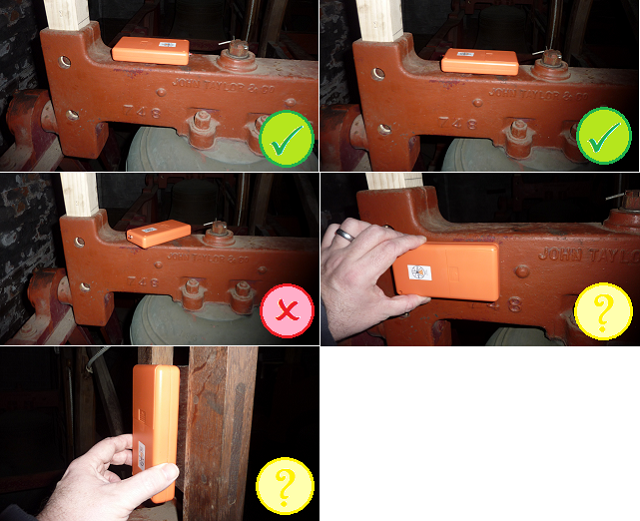
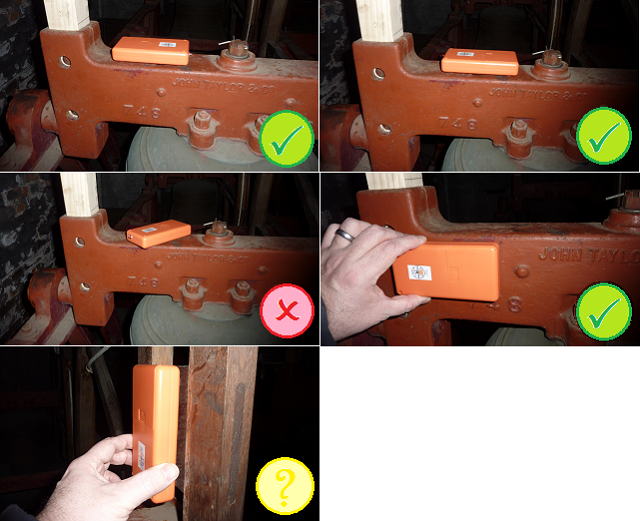
Side mounting

Changed region(s): [[0.875, 0.5221, 1.0, 0.6756]]

diff --git a/grabber/grabber.c b/grabber/grabber.c
@@ -79,7 +79,7 @@ float sample_period = 0.0;
 float GYRO_BIAS_1[3] = { 0.0, 0.0, 0.0 };
 float GYRO_BIAS_2[3] = { 0.0, 0.0, 0.0 };
 int DEBUG = 0;
-float angle_correction = 0.0;
+//float angle_correction = 0.0;
 
 // These are the smoothed results to report to the front end
 float smoothedAngle = 0.0;
@@ -94,6 +94,8 @@ float MPU6050_gyro_scale_factor = 0;
 float MPU6050_accel_scale_factor = 0;
 
 float ROTATIONS[3] = { 1.0, -1.0, -1.0 }; //set rotation values for mounting IMU device x y z
+
+float SIDEMOUNT = 0.0;
 
 int ODR = 0;
 int FS_GYRO = 0;
@@ -127,7 +129,7 @@ void sig_handler(int signum) {
     sig_exit = 1;
 }
 /*
-# There are eight possible command sent by the user's browser:
+# There are nine possible command sent by the user's browser:
 # (a)   STRT:[filename] Start recording a session with a bell.  The bell
 #       must be at stand and (reasonably) stationary otherwise this
 #       will return ESTD: or EMOV: either of which signals the browser 
@@ -144,6 +146,7 @@ void sig_handler(int signum) {
 #             string is unixtime (microsecs since 1/1/70)
 # (g)   SAMP: requests the current sample period
 # (h)   SHDN: tells the device to shutdown
+# (i)   TEST: returns the current basic orientation (for testing)
 # 
 # There are the following responses back to the user's browser:
 # (i)   STPD: tells the browser that the device has sucessfully stopped sampling
@@ -158,12 +161,13 @@ void sig_handler(int signum) {
 # (vii) ESTD: bell not at stand (aborts started session)
 # (viii)EMOV: bell moving when session started (the bell has to be stationary at start)
 # (ix)  ESAM: sample period needs to be measured first (deprecated)
-# (x)  ESTR: internal error related to data / filenames (shouldn't happen)!
-# (xi) DATA:[string]  chunk of data from a previously stored file.  In same format as LIVE:
-# (xii)EOVF: (sent by dcmimu) fifo overflow flagged.
+# (x)   ESTR: internal error related to data / filenames (shouldn't happen)!
+# (xi)  DATA:[string]  chunk of data from a previously stored file.  In same format as LIVE:
+# (xii) EOVF: (sent by dcmimu) fifo overflow flagged.
 # (xiii)FILE:[filename] in response to FILE: a list of the previous recordings in /data/samples
 # (xiv) STRT: in response to STRT: indicates a sucessful start.
 # (xv)  LFIN:[number] indicates the end of a file download and the number of samples sent
+* (xvi) TEST:[number] current orientation
 */
 
 /*
@@ -308,6 +312,14 @@ int main(int argc, char const *argv[]){
                 }
                 continue;
             }
+            if(strcmp("TEST:", command) == 0) {
+                ROTATIONS[0] = 1.0;   // reset rotations
+                ROTATIONS[1] = -1.0;
+                ROTATIONS[2] = -1.0;
+				printf("TEST:%f\n",MPU6050_get_orientation());
+                continue;
+            }
+
             if(strcmp("STRT:", command) == 0) {
                 if(entries == 2  && strlen(details) < 34){
                     sprintf(FILENAME, "/data/samples/%s", details);
@@ -317,6 +329,7 @@ int main(int argc, char const *argv[]){
                     timenow = gmtime(&now);
                     strftime(FILENAME, sizeof(FILENAME), "/data/samples/Unnamed_%d-%m-%y_%H%M", timenow);
                 }
+                SIDEMOUNT = 0.0;
                 ROTATIONS[0] = 1.0;   // reset rotations
                 ROTATIONS[1] = -1.0;
                 ROTATIONS[2] = -1.0;
@@ -326,6 +339,15 @@ int main(int argc, char const *argv[]){
                     fprintf(stderr, "Can't calculate start angle\n");
                     continue;
                 }
+                if(start_angle > 70.0 && start_angle < 110.0){ // appears to be mounted on the side of the headstock
+                    SIDEMOUNT = 90.0;
+                    start_angle -= SIDEMOUNT;
+                }
+                if(start_angle > -110.0 && start_angle < -90.0){ // appears to be mounted on the side of the headstock
+                    SIDEMOUNT = -90.0;
+                    start_angle -= SIDEMOUNT;
+                }
+
                 if(start_angle < 2.0 && start_angle > -2.0) {
                     printf("ESTD:\n"); // bell out of range for stand
                     continue;
@@ -334,6 +356,7 @@ int main(int argc, char const *argv[]){
                     ROTATIONS[0] = -ROTATIONS[0];   // about which way to mount the sensor
                     ROTATIONS[1] = -ROTATIONS[1];   // it just flips things around as if the sensor
                     start_angle = -start_angle;     // was mounted the other way round
+                    SIDEMOUNT = -SIDEMOUNT;
                     GYRO_BIAS_1[0] = -GYRO_BIAS_1[0];
                     GYRO_BIAS_1[1] = -GYRO_BIAS_1[1];
                     GYRO_BIAS_2[0] = -GYRO_BIAS_2[0];
@@ -358,11 +381,16 @@ int main(int argc, char const *argv[]){
                         LOOPSLEEP = 4000000/ODR;
                         RUNNING = 1;
                         OUT_COUNT = 0;
-                        angle_correction = 0.0;
+//                        angle_correction = 0.0;
                         smoothedAccn = 0.0;
                         smoothedAngle = start_angle;
                         smoothedRate = 0.0;
                         printf("STRT:\n");
+                        //stabilise EKF
+                        for(int stab=0;stab<100;stab++){
+							usleep(LOOPSLEEP);
+							MPU6050_pull_data(2);
+						}
                     } else {
                         printf("EFIF:\n");
                         printf("STPD:\n");
@@ -537,7 +565,7 @@ float MPU6050_get_orientation(void){
     GYRO_BIAS_2[1] = 0.0;
     GYRO_BIAS_2[2] = 0.0;
  
-    for(count = 0; count < 50; ++count){
+    for(count = 0; count < 100; ++count){
         while (MPU6050_read_fifo_count(MPU6050_2_fd) == 0) usleep(5000);
         MPU6050_read_fifo_data(MPU6050_2_fd, fifo_returns);
 
@@ -555,20 +583,20 @@ float MPU6050_get_orientation(void){
         GYRO_BIAS_1[2] += fifo_returns[5];
 
     }
-    u0 /= 50.0;
-    u1 /= 50.0;
-    u2 /= 50.0;
-    z0 /= 50.0;
-    z1 /= 50.0;
-    z2 /= 50.0;
+    u0 /= 100.0;
+    u1 /= 100.0;
+    u2 /= 100.0;
+    z0 /= 100.0;
+    z1 /= 100.0;
+    z2 /= 100.0;
     
     GYRO_BIAS_2[0] = u0;
     GYRO_BIAS_2[1] = u1;
     GYRO_BIAS_2[2] = u2;
     
-    GYRO_BIAS_1[0] /= 50.0;
-    GYRO_BIAS_1[1] /= 50.0;
-    GYRO_BIAS_1[2] /= 50.0;
+    GYRO_BIAS_1[0] /= 100.0;
+    GYRO_BIAS_1[1] /= 100.0;
+    GYRO_BIAS_1[2] /= 100.0;
     
     
  //   printf("GXB:%+07.1f GYB:%+07.1f GZB:%+07.1f\n", u0,u1,u2); 
@@ -697,8 +725,8 @@ void MPU6050_stop_fifos(){
     }
 
 }
-
-void MPU6050_pull_data(int cleanUp){
+// arugument (command) =0 normal running =1 cleanup =2 stabilise (don't write anything)
+void MPU6050_pull_data(int command){
     float fifo_data_1[6];
     float fifo_data_2[6];
     float combined_data[6];
@@ -716,7 +744,7 @@ void MPU6050_pull_data(int cleanUp){
     static int local_count = 0;
     int remote_count = 0;
 
-    if(cleanUp){
+    if(command == 1){
         if(local_count != 0) fputs(local_outbuf, fd_write_out);
         fflush(fd_write_out);
         local_count = 0;
@@ -778,14 +806,15 @@ void MPU6050_pull_data(int cleanUp){
                
         calculate(combined_data[3],combined_data[4],combined_data[5], combined_data[0],combined_data[1],combined_data[2],sample_period);
         accTang = (combined_data[3] - last_x_gyro)/sample_period;         // assumes rotation of bell is around x axis
-        roll += angle_correction;                                     // need to correct reported angles to match
-        if ((last_angle - roll) > 250 && angle_correction != 360){    // the system we are using 0 degrees = bell at
-            angle_correction = 360;                                   // balance at handstroke, 360 degrees = bell at
-            roll += 360.0;                                            // balance at backstroke. 180 degrees = BDC. 
-        } else if ((last_angle - roll) < -250 && angle_correction != 0) {                                                 
-            angle_correction = 0;
-            roll -= 360.0;
-        }
+        roll -= SIDEMOUNT;
+//        roll += angle_correction;                                     // need to correct reported angles to match
+//        if ((last_angle - roll) > 250 && angle_correction != 360){    // the system we are using 0 degrees = bell at
+//            angle_correction = 360;                                   // balance at handstroke, 360 degrees = bell at
+//            roll += 360.0;                                            // balance at backstroke. 180 degrees = BDC. 
+//        } else if ((last_angle - roll) < -250 && angle_correction != 0) {                                                 
+//            angle_correction = 0;
+//            roll -= 360.0;
+//        }
 
         float newSmoothedAccn = smoothFactor*smoothedAccn + (1.0-smoothFactor)* accTang;
         float newSmoothedAngle = (smoothFactor*smoothedAngle + (1.0-smoothFactor)*roll);
@@ -806,26 +835,27 @@ void MPU6050_pull_data(int cleanUp){
         smoothedAngle = newSmoothedAngle;
         smoothedAccn = newSmoothedAccn;
 // TODO: make writes to stdout and SD card threaded
-        sprintf(remote_outbuf_line, "LIVE:A:%+07.1f,R:%+07.1f,C:%+07.1f", smoothedAngle-nudgeAngle, smoothedRate, smoothedAccn);
-        if (remote_count + strlen(remote_outbuf_line) > (sizeof remote_outbuf -2)) {
-            printf("%s\n",remote_outbuf);
-            remote_count = 0;
-        }
-        remote_count += sprintf(&remote_outbuf[remote_count],remote_outbuf_line);
- 
-        sprintf(local_outbuf_line,"A:%+07.1f,R:%+07.1f,C:%+07.1f,NA:%+05.1f\n", smoothedAngle-nudgeAngle, smoothedRate, smoothedAccn, nudgeAngle);
-        if (local_count + strlen(local_outbuf_line) > (sizeof local_outbuf -2)) {
-            fputs(local_outbuf, fd_write_out);
-            fflush(fd_write_out);
-            local_count = 0;
-        }
-        local_count += sprintf(&local_outbuf[local_count],local_outbuf_line);
-       
+        if(command != 2){
+            sprintf(remote_outbuf_line, "LIVE:A:%+07.1f,R:%+07.1f,C:%+07.1f\n", smoothedAngle-nudgeAngle, smoothedRate, smoothedAccn);
+            if (remote_count + strlen(remote_outbuf_line) > (sizeof remote_outbuf -2)) {
+                printf("%s",remote_outbuf);
+                remote_count = 0;
+            }
+            remote_count += sprintf(&remote_outbuf[remote_count],remote_outbuf_line);
+     
+            sprintf(local_outbuf_line,"A:%+07.1f,R:%+07.1f,C:%+07.1f,NA:%+05.1f\n", smoothedAngle-nudgeAngle, smoothedRate, smoothedAccn, nudgeAngle);
+            if (local_count + strlen(local_outbuf_line) > (sizeof local_outbuf -2)) {
+                fputs(local_outbuf, fd_write_out);
+                fflush(fd_write_out);
+                local_count = 0;
+            }
+            local_count += sprintf(&local_outbuf[local_count],local_outbuf_line);
+       }
 //        fprintf(fd_write_out,"A:%+07.1f,R:%+07.1f,C:%+07.1f,P:%+07.1f,Y:%+07.1f,AX:%+06.3f,AY:%+06.3f,AZ:%+06.3f,GX:%+07.1f,GY:%+07.1f,GZ:%+07.1f,X:%+06.3f,Y:%+06.3f,Z:%+06.3f\n", roll, (gyro_data[0] + last_x_gyro)/2.0, accTang, pitch, yaw, accel_data[0], accel_data[1], accel_data[2], gyro_data[0], gyro_data[1], gyro_data[2],a[0],a[1],a[2]);
         last_x_gyro = combined_data[3];
         last_angle = roll;
     }
-    if(remote_count != 0) printf("%s\n",remote_outbuf);
+    if(remote_count != 0) printf("%s",remote_outbuf);
 //    if(local_count != 0) fputs(local_outbuf, fd_write_out);
    
 }
@@ -1120,7 +1150,20 @@ void calculate(float u0, float u1, float u2, float z0, float z1,float z2, float 
 
     // compute new pitch and roll angles from a posteriori states
     pitch = asin(-x[0]) * RADIANS_TO_DEGREES_MULTIPLIER;
-    roll = atan2(x[1],x[2]) * RADIANS_TO_DEGREES_MULTIPLIER;
+    
+    
+    // need to correct reported angles to match
+    // the system we are using 0 degrees = bell at
+    // balance at handstroke, 360 degrees = bell at
+    // balance at backstroke. 180 degrees = BDC. 
+    
+    float rolldiff = (atan2(x[1],x[2]) * RADIANS_TO_DEGREES_MULTIPLIER) - roll;
+    if(rolldiff > 250.0) {
+        rolldiff -= 360.0;
+    } else if (rolldiff < -250.0) {
+        rolldiff += 360.0;
+    }    
+    roll = roll + rolldiff;
 
     // save the estimated non-gravitational acceleration
     a[0] = z0-x[0]*g0;
